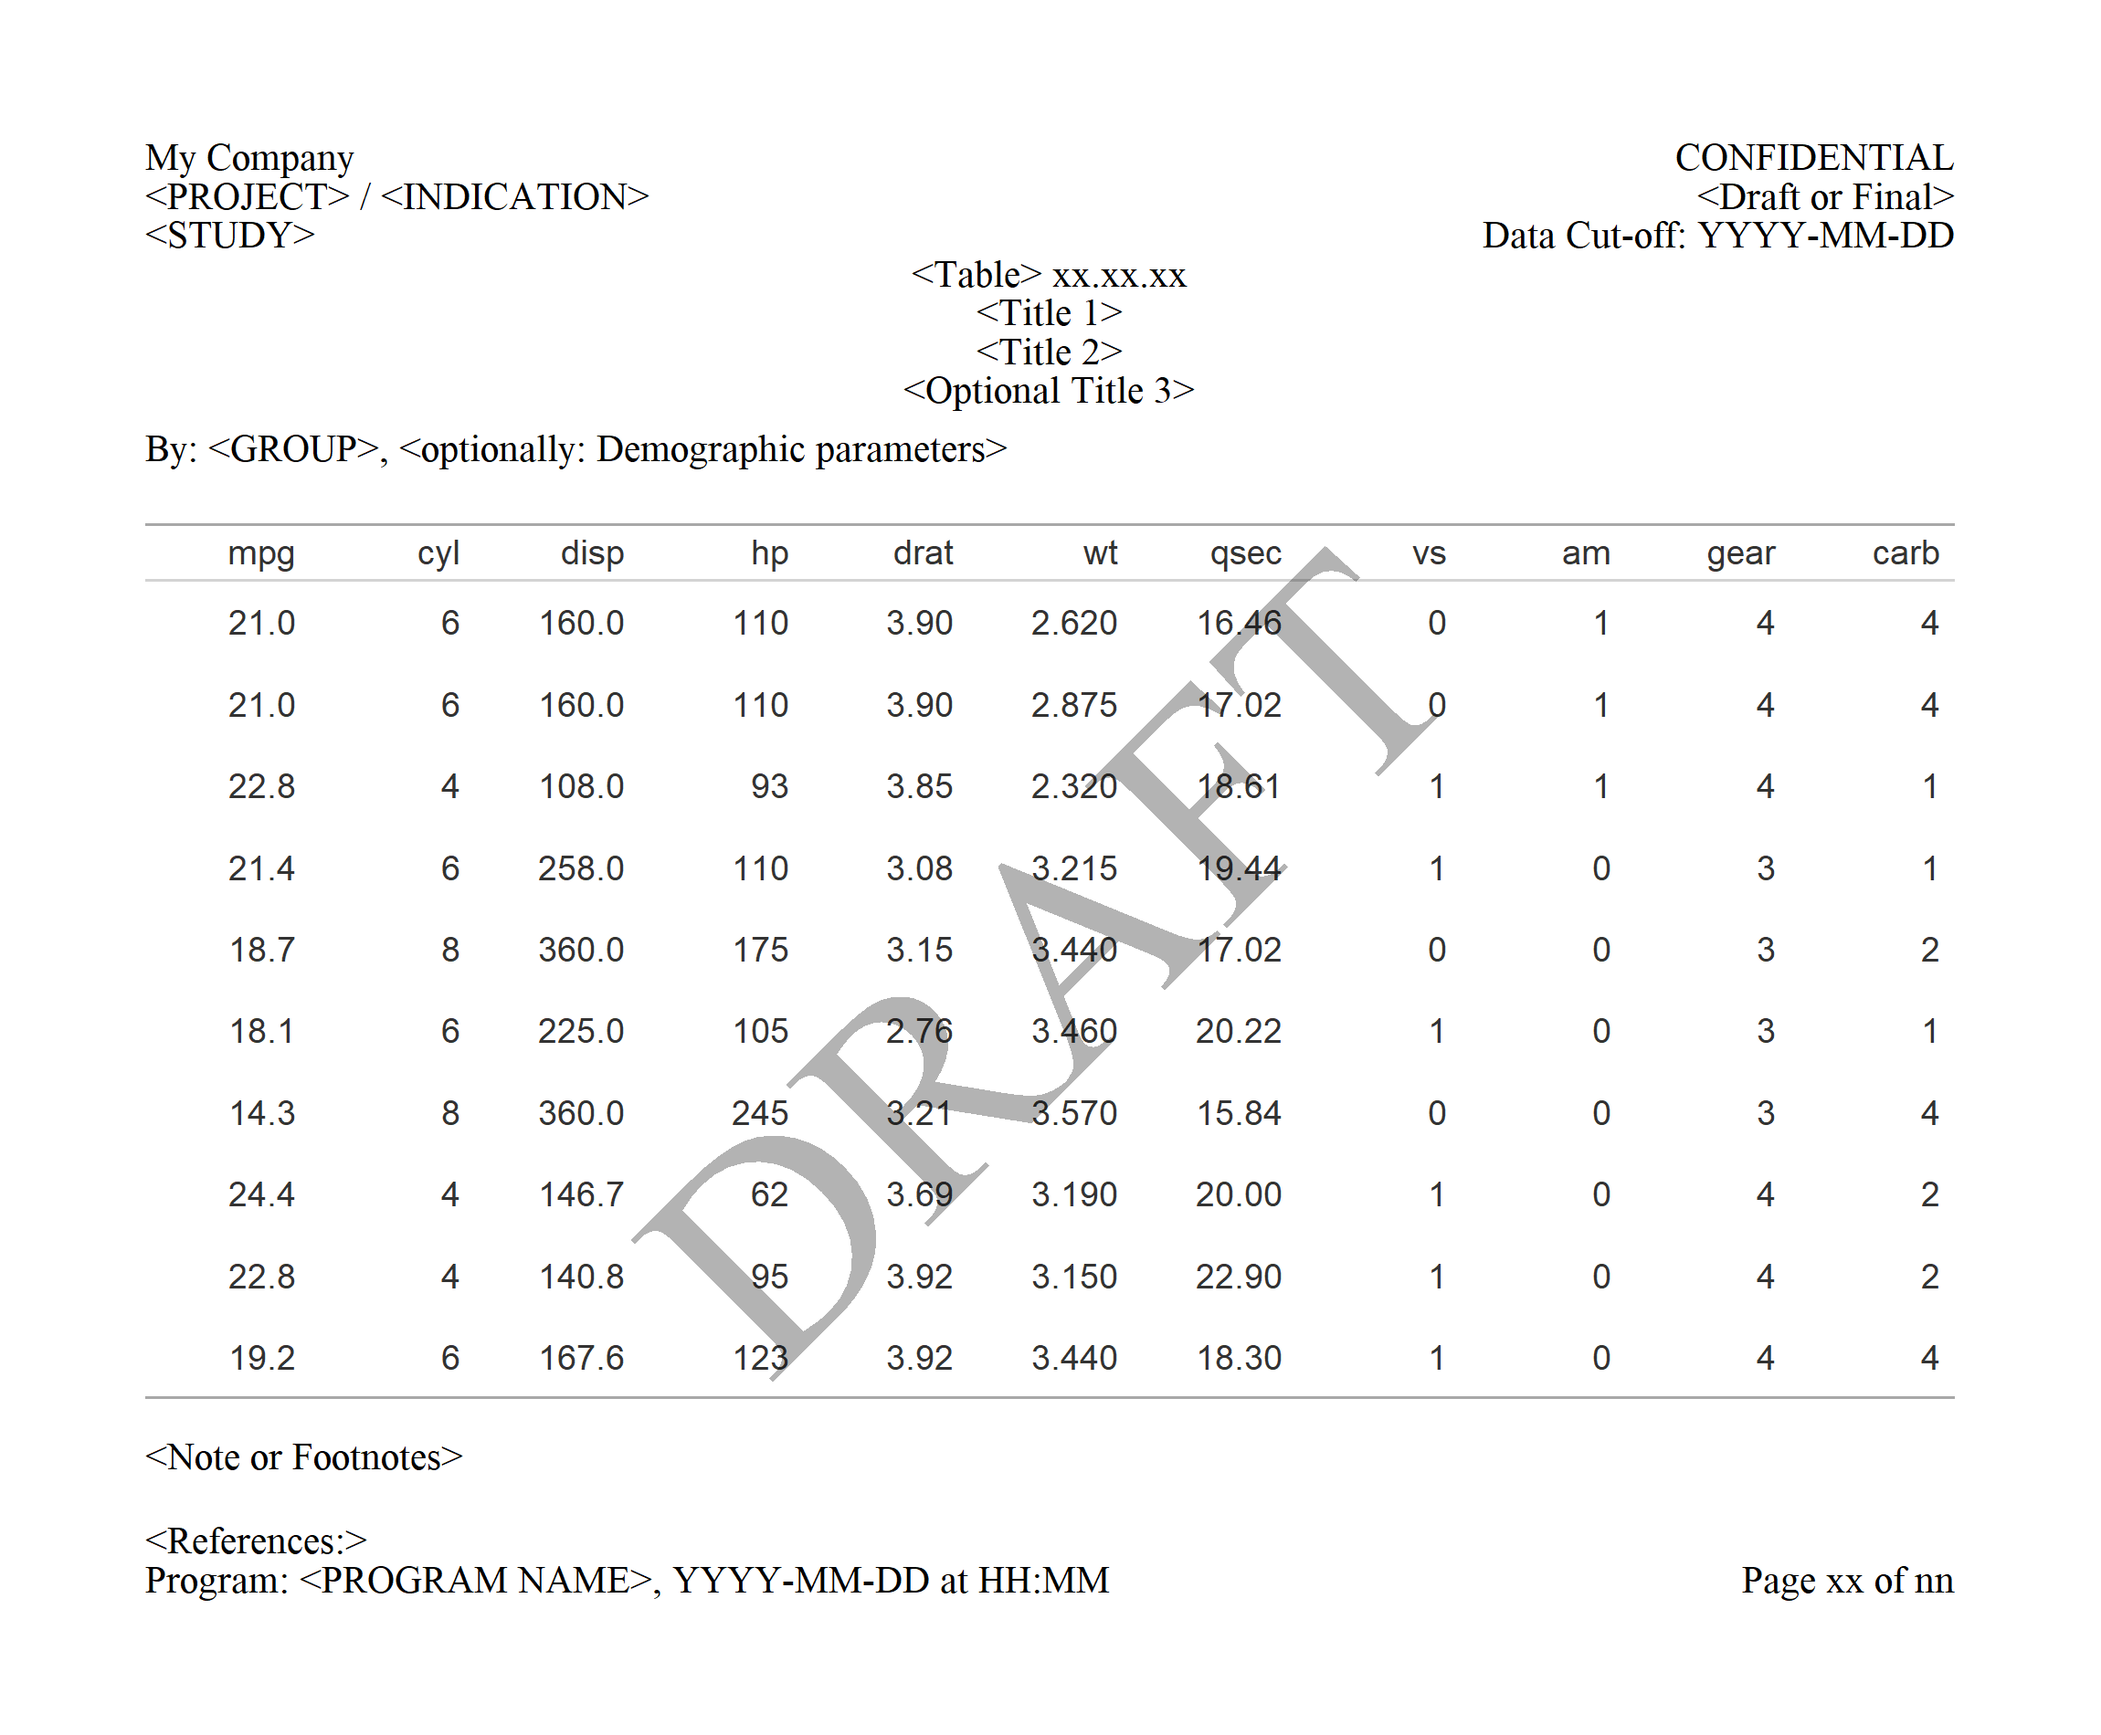
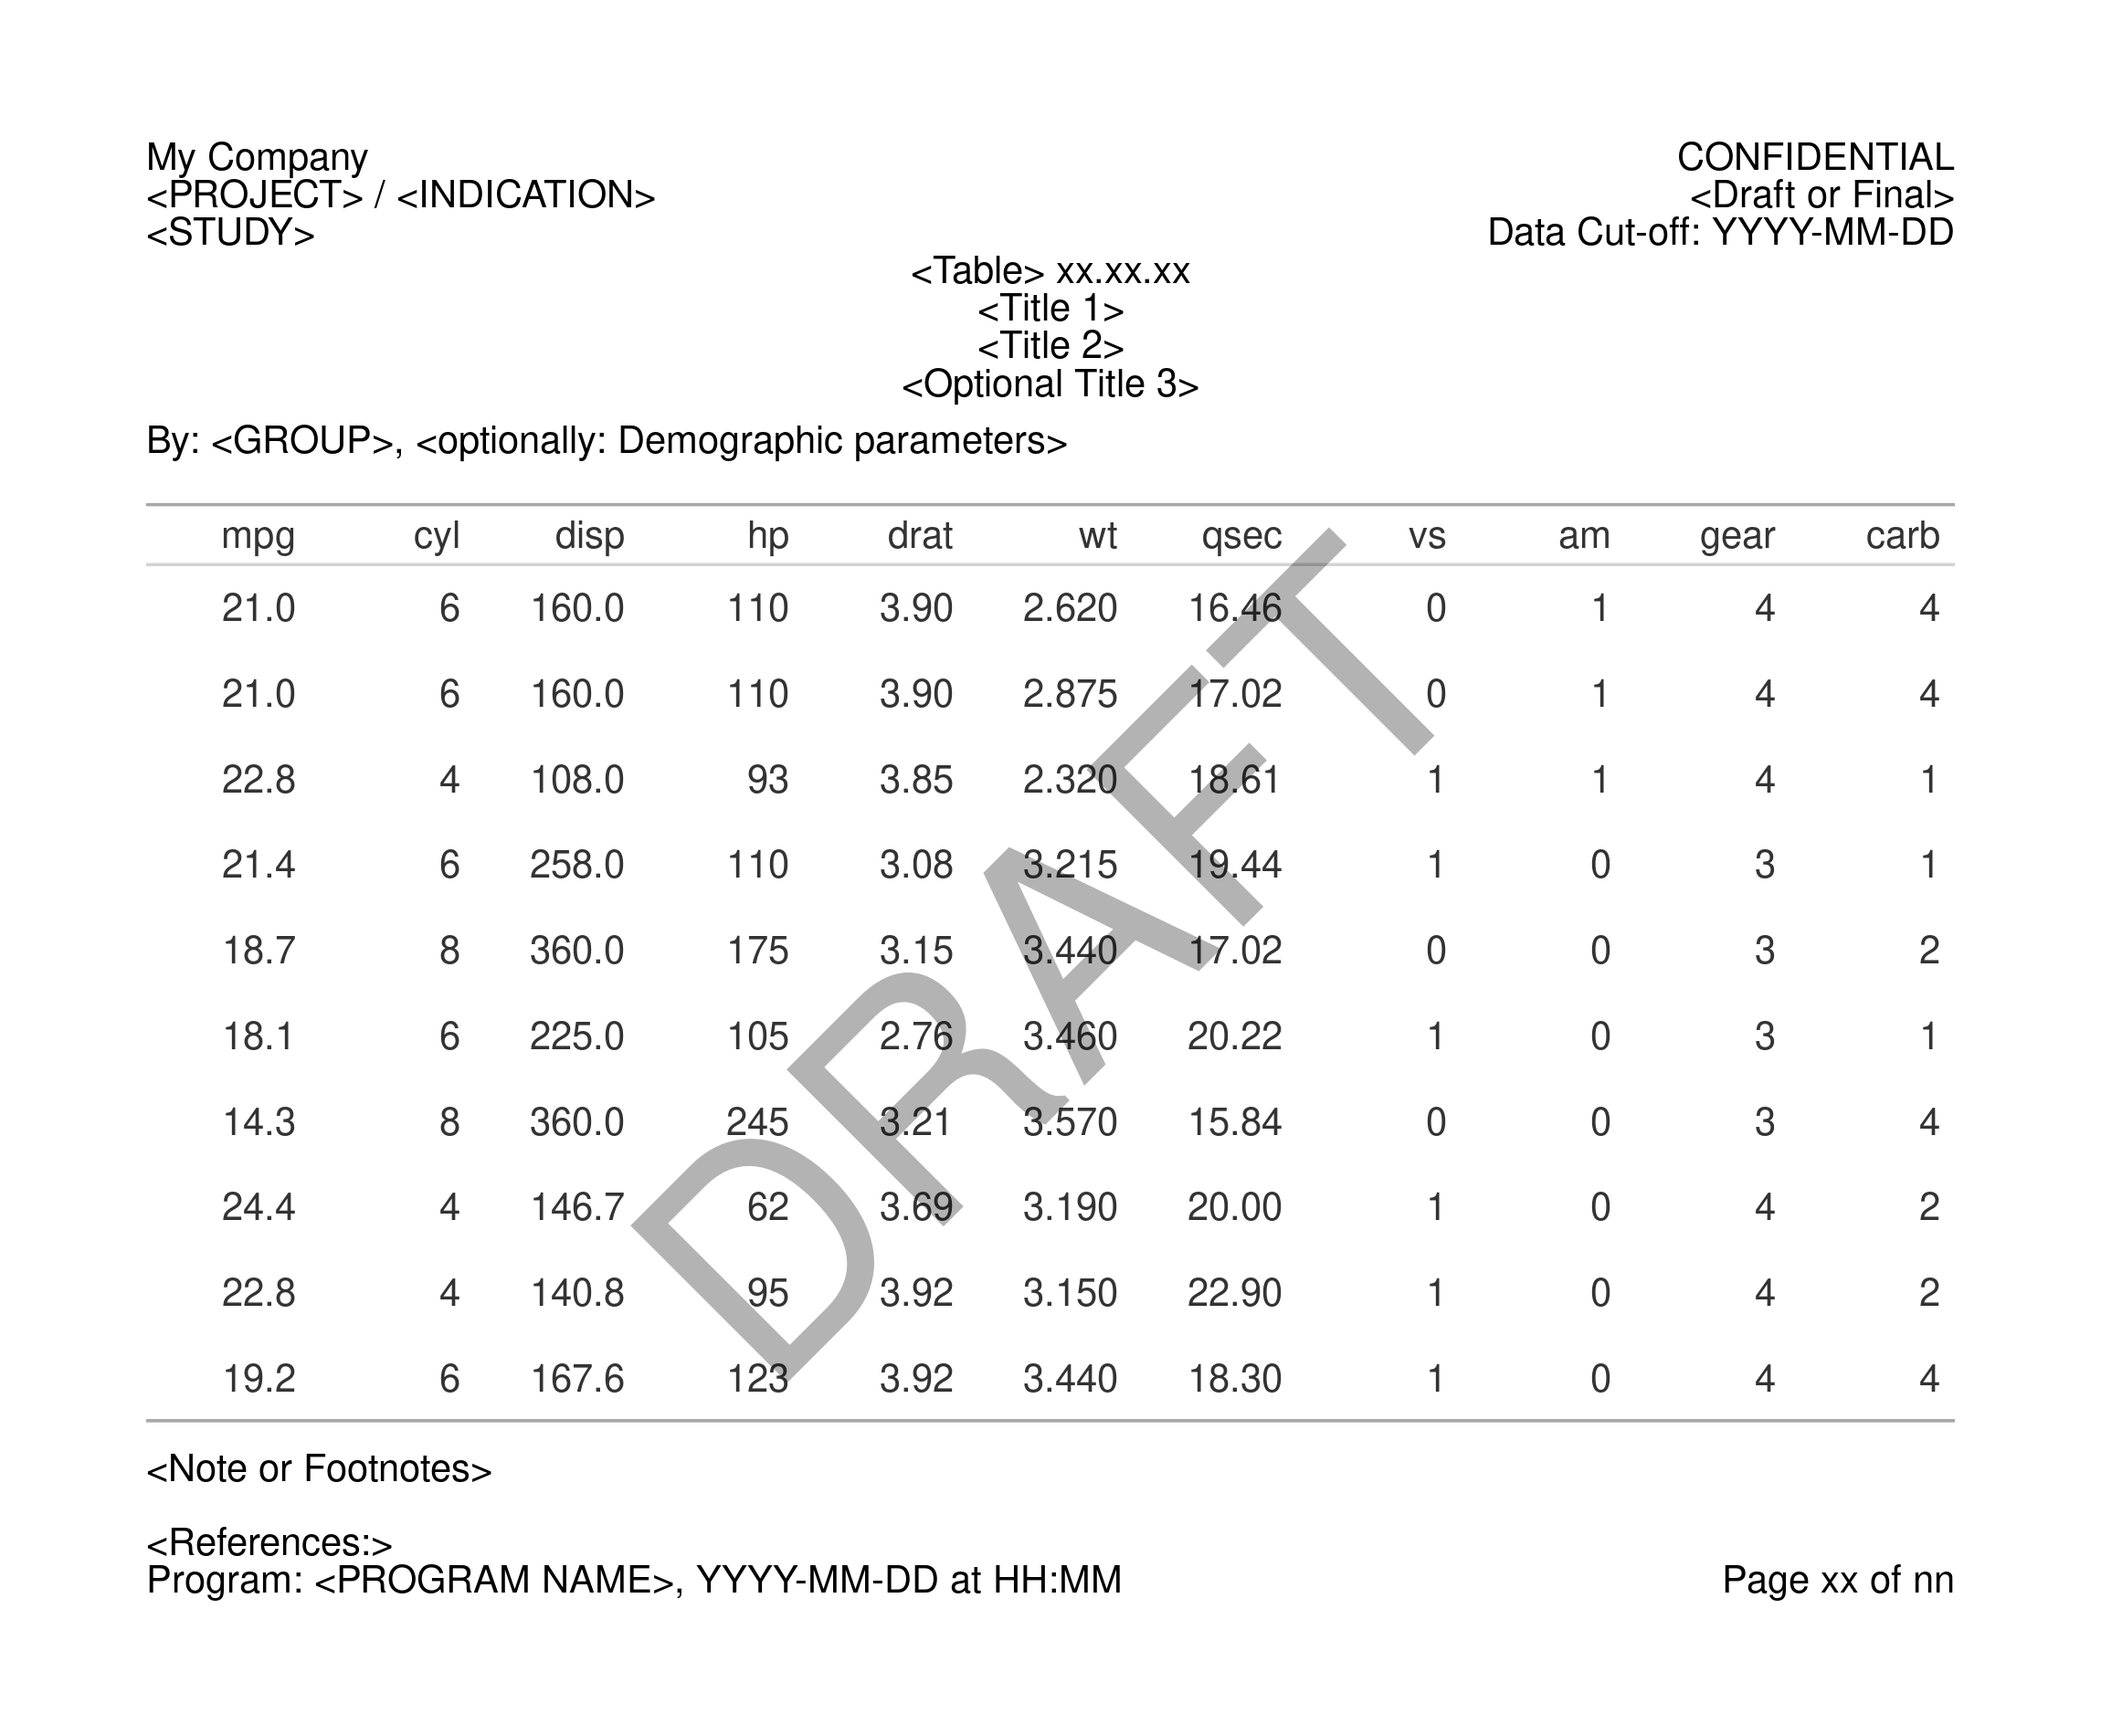
update README and font size guide (#10)

diff --git a/README.md b/README.md
@@ -75,7 +75,10 @@ tab <- gt::gt(head(mtcars, n = 10))  |>
     table.width = gt::pct(100),
     data_row.padding = gt::px(10),
     table_body.hlines.color = "white",
-    table.font.size = 12
+    # gt font size is in pixels
+    # Multiply points by 96/72 to get pixels
+    table.font.size = 10 * 96 / 72,
+    table.font.names = "sans"
   )
 
 # Use `gridify()` to create a `gridify` object
@@ -84,7 +87,7 @@ gridify_object <- gridify(
   # Choose a layout (predefined or custom)
   layout = pharma_layout_base(
     margin = grid::unit(c(0.5, 0.5, 0.5, 0.5), "inches"),
-    global_gpar = grid::gpar(fontfamily = "serif", fontsize = 10)
+    global_gpar = grid::gpar(fontfamily = "sans", fontsize = 10)
   )
 )
 # Print the `gridify` object to see empty cells

diff --git a/NEWS.md b/NEWS.md
@@ -1,5 +1,7 @@
 # gridify 0.7.6.9000
 
+* Updated `README.md` file.
+* Updated description how to convert points to pixels, example in `README.md` file.
 * Removed `rtables` examples as installation of `rtables.officer` requires R >= 4.4.0.
 
 # gridify 0.7.6
